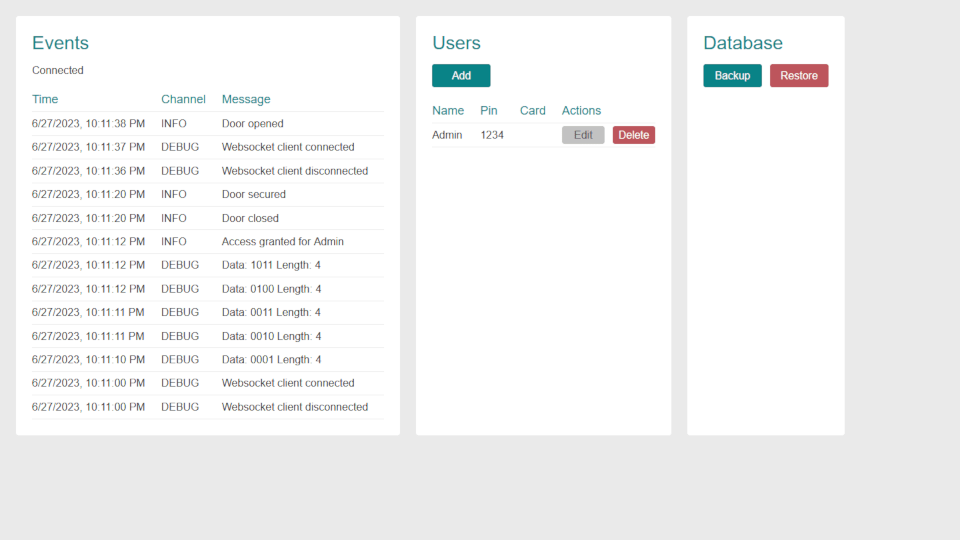
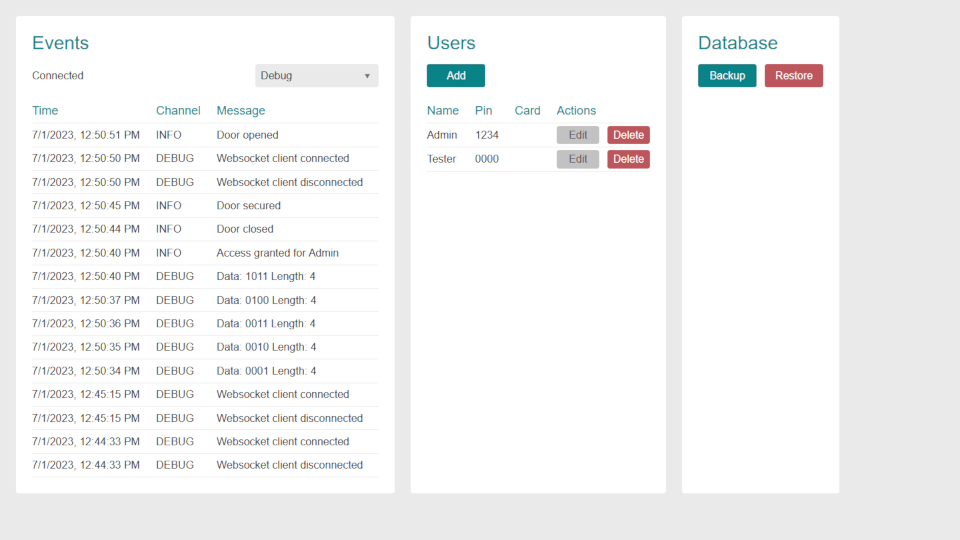
Select log level component

diff --git a/frontend/components/Select.svelte b/frontend/components/Select.svelte
@@ -1,0 +1,186 @@
+<script>
+    /*
+    type to jump to option
+    white-space pre handling long lines
+
+    Native select observations:
+
+    outline goes away on open
+        unseen on click to open, seen on click to close
+    tab out selects the hovered item??
+
+    all have drop shadow
+    border in between maintained
+
+    outside window click closes
+    label click focuses but does not open, closes also
+
+    click outside windows blurs element, you can use that probably
+    i don't think it really does
+    */
+
+    export let options = [
+        { value: '', text: '' }
+    ];
+
+    export let value = '';
+
+    let input;
+    let dropdown;
+    let open = false;
+    let valueIndex = 0;
+    let focusIndex = 0;
+
+    function findValue(x) {
+        const i = options.findIndex(option => option.value.startsWith(x));
+        if (i > -1) {
+            setEverything(i);
+        }
+    }
+
+    // initial provided value
+    findValue(value);
+
+    function setEverything(x) {
+        valueIndex = x;
+        value = options[valueIndex].value;
+        focusIndex = valueIndex;
+    }
+
+    function toggle() {
+        open = !open;
+        focusIndex = valueIndex;
+    }
+
+    function openSelect() {
+        open = true;
+        focusIndex = valueIndex;
+    }
+
+    function closeSelect() {
+        open = false;
+        focusIndex = valueIndex;
+    }
+
+    function deselect(e) {
+        requestAnimationFrame(() => {
+            const caret = e.target.selectionEnd;
+            e.target.setSelectionRange(caret, caret);
+        });
+    }
+
+    function keyPress(e) {
+        if (e.key === 'Escape') {
+            closeSelect();
+        } else if (e.key === ' ') {
+            openSelect();
+        } else if (e.key === 'Tab') {
+            if (open) {
+                closeSelect();
+                input.focus();
+                e.preventDefault();
+            }
+        } else if (e.key === 'ArrowUp' || e.key === 'ArrowLeft') {
+            setEverything(Math.max(focusIndex - 1, 0));
+        } else if (e.key === 'ArrowDown' || e.key === 'ArrowRight') {
+            setEverything(Math.min(focusIndex + 1, options.length - 1));
+        } else {
+            console.log("'" + e.key + "'");
+            // ! 'Shift', 'Enter', 'Control', 'Alt', 'CapsLock', etc
+            // if length === 1?
+            // 'Backspace'
+
+            // search by text
+            // check if timer running
+            //   append input into string
+            //   else reset and start timer
+        }
+    }
+
+    function optionClick(e) {
+        setEverything(+e.target.dataset.value);
+        closeSelect();
+        input.focus();
+    }
+
+    function optionHover(e) {
+        if (!e.target.classList.contains('current')) {
+            focusIndex = +e.target.dataset.value;
+        }
+    }
+
+    window.addEventListener('click', (e) => {
+        // really any click would close it if open
+        // but don't want to conflict with other handlers
+        if (open && e.target !== dropdown && e.target !== input) {
+            closeSelect();
+        }
+    });
+</script>
+
+<div class="select">
+    <input bind:this={input} on:click={toggle} on:keydown={keyPress}
+        on:focus={deselect} value={options[valueIndex].text}
+        class:open={open} readonly data-type="select" />
+    <svg xmlns='http://www.w3.org/2000/svg' width='10' height='10'>
+        <polygon points='1,1 5,8 9,1' />
+    </svg>
+    {#if open}
+    <ul bind:this={dropdown}>
+        {#each options as option, i}
+        <li><button on:click={optionClick} on:mousemove={optionHover}
+            class:current={option.value === options[focusIndex].value}
+            data-value={i}>{option.text}</button></li>
+        {/each}
+    </ul>
+    {/if}
+</div>
+
+<style>
+    .select {
+        position: relative;
+        width: fit-content;
+    }
+    input[data-type='select'] {
+        cursor: default;
+    }
+    input.open {
+        outline: 2px solid #0fadb2;
+    }
+    .select svg {
+        position: absolute;
+        top: 14px;
+        right: 12px;
+        pointer-events: none;
+        fill: #777777;
+    }
+    .select ul {
+        box-sizing: border-box;
+        width: 100%;
+        padding: 0;
+        margin: 2px 0 0;
+        position: absolute;
+        z-index: 10;
+        list-style: none;
+        cursor: default;
+        border-radius: 4px;
+        /*box-shadow: 0 1px 2px 0 rgba(0,0,0,0.1);*/
+        overflow: hidden;
+        outline: 2px solid #0fadb2;
+    }
+
+    .select button {
+        width: 100%;
+        display: block;
+        min-height: 34px; /* not ideal */
+        text-align: left;
+        background: #eaeaea;
+        border-radius: 0;
+    }
+    button.current {
+        background: #c2c2c2;
+    }
+    button:focus {
+        outline: none;
+    }
+</style>

diff --git a/frontend/components/EventList.svelte b/frontend/components/EventList.svelte
@@ -1,13 +1,46 @@
 <script>
+    import Select from './Select.svelte';
+
     let state = 'Disconnected';
     let events = [];
 
+    // pagination
+    // let page = 1;
+    // let perPage = 15;
+
+    const options = [
+        { value: 'CRITICAL', text: 'Critical' },
+        { value: 'ERROR', text: 'Error' },
+        { value: 'WARNING', text: 'Warning' },
+        { value: 'INFO', text: 'Info' },
+        { value: 'DEBUG', text: 'Debug' }
+    ];
+    let selected = 'DEBUG';
+    // what you selected will be reset on page reload
+
+    // when selected changes, get() again
+    $: get(selected);
+
+    // this hits endpoint twice on page load
+    // cause both selected change and websocket connect
+    // also websocket hits it even when events created that will not display
+
     async function get() {
-        const response = await fetch('/api/events?channel=DEBUG&channel=INFO&channel=WARNING&limit=15');
+        // query builder
+        const url = new URL('/api/events', window.location.origin);
+        url.searchParams.append('limit', 15);
+
+        for (const option of options) {
+            url.searchParams.append('channel', option.value);
+            if (option.value === selected) break;
+        }
+
+        const response = await fetch(url);
         const data = await response.json();
         events = data;
     }
 
+    // this should be a class so you can reconnect
     // Create WebSocket connection.
     const socket = new WebSocket('ws://' + location.host + '/ws');
 
@@ -34,7 +67,10 @@
 
 <div class="card">
     <h2>Events</h2>
-    <p>{state}</p>
+    <p class="smallgap">
+        {state} <!-- change to disconnect/reconnect button -->
+        <Select options={options} bind:value={selected} />
+    </p>
     {#if events.length > 0}
     <table>
         <tr>
@@ -53,4 +89,9 @@
     {:else}
     <p>No items to show</p>
     {/if}
+    <!-- <p>
+        <button>&lt;</button>
+        {page}
+        <button>&gt;</button>
+    </p> -->
 </div>

diff --git a/frontend/css/global.css b/frontend/css/global.css
@@ -1,6 +1,6 @@
 body {
     font-family: sans-serif;
-    line-height: 1.15;
+    line-height: 1.15; /* makes the heights decimal pixels, should override */
     color: #333333;
     background-color: #eaeaea;
     font-size: 16px;
@@ -90,6 +90,7 @@ label {
 .smallgap {
     display: flex;
     justify-content: space-between;
+    align-items: center;
     gap: 12px;
 }
 input {
@@ -104,8 +105,8 @@ input:disabled {
     color: #777777;
 }
 .buttons {
-	display: flex;
-	justify-content: space-around;
-	align-items: center;
+    display: flex;
+    justify-content: space-around;
+    align-items: center;
     padding: 8px 0 0;
 }

diff --git a/docs/TODO.md b/docs/TODO.md
@@ -8,7 +8,6 @@
 
 ## Code changes
 
-  * ui filters for event list (channel select)
   * DEBUG messages for user edited, user deleted
   * api endpoint to get last unknown card (from logs)
   * "Connected" styling
@@ -64,10 +63,7 @@ that would be super cool
 
 ---
 
-`broadcast.py` seems like it should be a class, for cleaner init,
-but then how do you reference it everywhere?
-
-aiohttp want you to do something like this in `serve.py`
+aiohttp want you to do state like this
 but your 'device' stuff is pretty separated from 'app'
 
 ```py
@@ -91,3 +87,11 @@ also this doesn't work
 cause there is a bug where `body` cannot be a string (it's bytes, or maybe a full response object)
 and `content_type` doesn't affect default response either
 -->
+
+---
+
+you usually get a hardware loop startup log in webui on restart.
+i guess it gets hit with a last websocket, and then hits the api,
+but the api doesn't respond til service is back up.
+
+...so why don't you try to reconnect automatically
